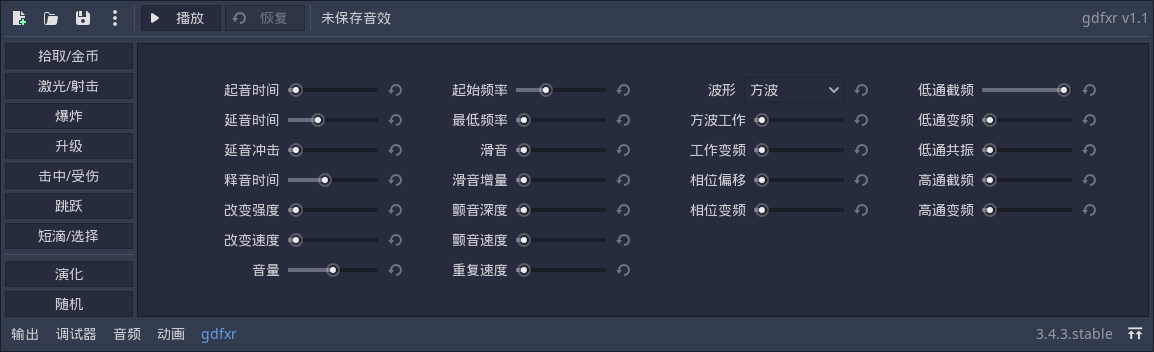
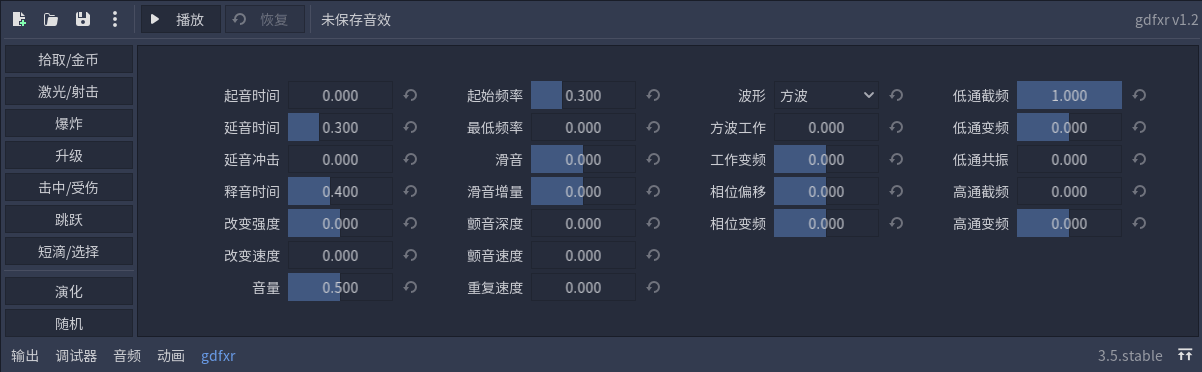
Add custom slider
This is a slider inspired by those used in Blender.

The control is a draggable slider displaying the current value as its
background. Clicking the control brings up a LineEdit for manual value
input.

When dragging the slider, hold CTRL to round to 0.1 increments or hold
SHIFT to round to 0.01 increments. Holding both CTRL and SHIFT rounds to
0.001 increments.

diff --git a/CHANGELOG.md b/CHANGELOG.md
@@ -6,8 +6,7 @@ and this project adheres to [Semantic Versioning](https://semver.org/spec/v2.0.0
 
 ## [Unreleased]
 ### Added
-- Display current Slider value when hovered.
-- Hold Ctrl to snap Slider value to 0.01 increments.
+- Implement custom slider.
 
 ## [1.1.1] - 2022-07-30
 ### Fixed
